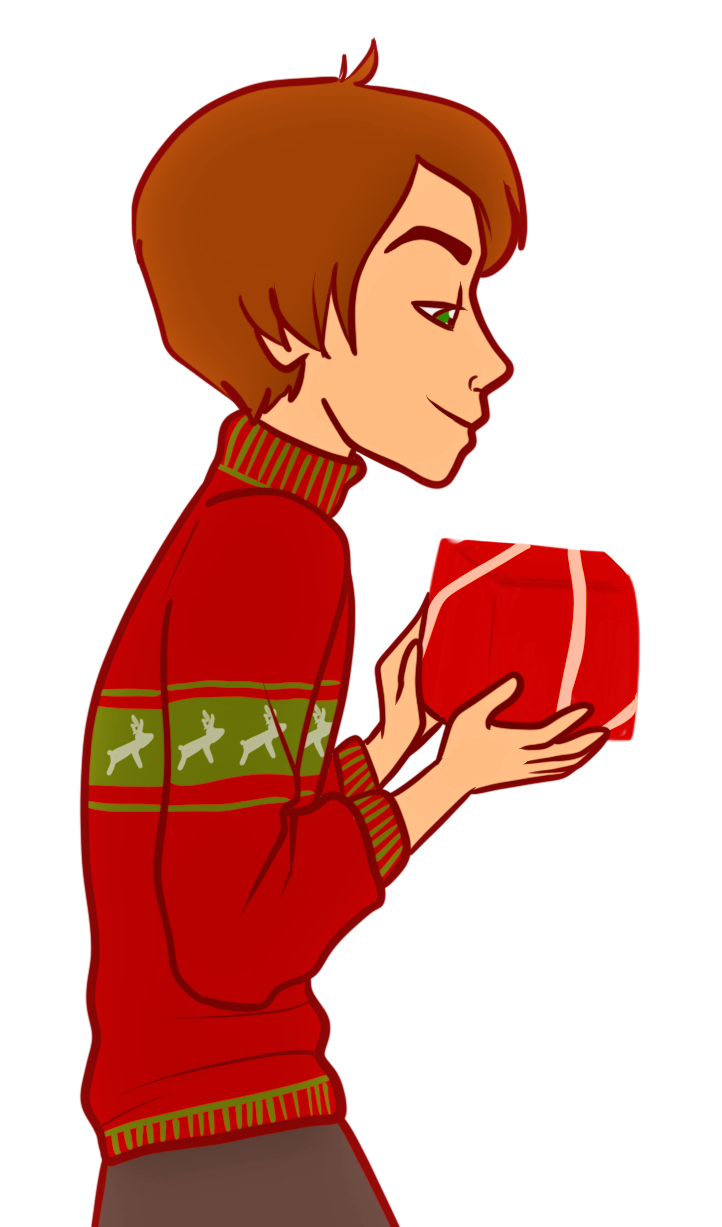
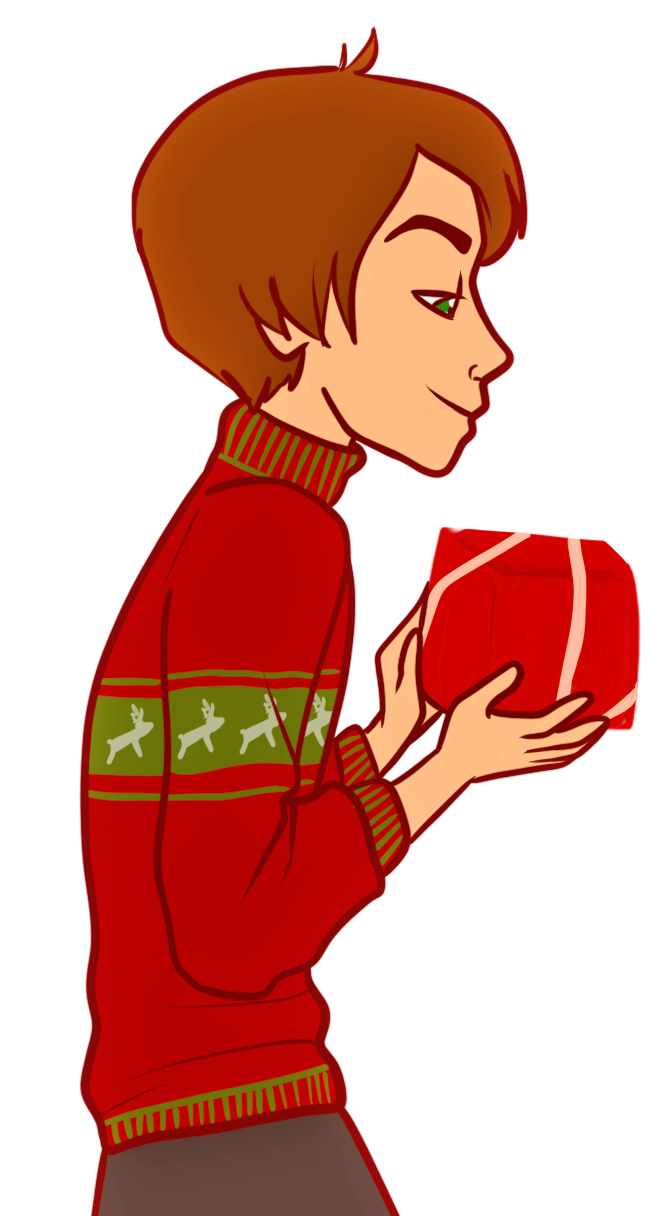
updated images, adjusted positions, fixed game functions

Changed region(s): [[0.0902, 0.0312, 0.9624, 1.0], [0.2707, 0.0625, 0.3008, 0.0938]]

diff --git a/script.js b/script.js
@@ -19,12 +19,12 @@ class Player {
     }
 
     block() {
-        
+
     }
 
     shotgun() {
         console.log(this.name + " won!");
-        return true;
+        gameOver = true;
     }
 
     random() {
@@ -32,13 +32,18 @@ class Player {
         console.log("choice: " + choice);
         if (choice == 0) {
             this.reload();
+            girlWrap();
             return choice;
         } else if (choice == 1) {
             this.block();
+            girlBlock();
             return choice;
         } else if (choice == 2) {
-            this.shoot();
-            return choice;
+            if (computer.shots > 0) {
+                this.shoot();
+                girlThrow();
+                return choice;
+            }
         }
     }
 
@@ -79,36 +84,44 @@ class Player {
     }
 }
 
+var gameOver = false;
+
 function check() {
     if (player.shots == 3) {
-        return player.shotgun();
+        player.shotgun();
     } else if (computer.shots == 3) {
-        return computer.shotgun();
+        computer.shotgun();
     } else {
         return false;
     }
 }
 
 function turn(choice) {
-    var gameOver = check();
+    check();
+
     console.log(gameOver);
     let computerChoice;
 
     if (!gameOver) {
         console.log("choice: " + choice);
         if (choice == 0) {
+            boyWrap();
             computerChoice = computer.random();
-            if (computerChoice == 2 && computer.shots + 1 > 1)
+            if (computerChoice == 2) {
                 computer.shotgun();
+                gameOver = true;
+            }
             else
                 player.reload();
         } else if (choice == 1) {
+            boyBlock();
             player.block();
             computer.random();
         } else if (choice == 2) {
+            boyThrow();
             computerChoice = computer.random();
             console.log('computer chose: ' + computerChoice);
-            if (computerChoice == 0)
+            if (computerChoice == 0 && player.shots > 0)
                 player.shotgun();
             else
                 player.shoot();
@@ -140,3 +153,39 @@ var blockButton = document.getElementById('block');
 blockButton.addEventListener('click', function () {
     turn(1);
 });
+
+function boyThrow() {
+    var image = document.getElementById('boy');
+    image.setAttribute("style", "width: 485px;");
+    image.src = "pictures/boy-throw.png";
+}
+
+function boyBlock() {
+    var image = document.getElementById('boy');
+    image.setAttribute("style", "width: 300px;");
+    image.src = "pictures/boy-block.png";
+}
+
+function boyWrap() {
+    var image = document.getElementById('boy');
+    image.setAttribute("style", "width: 300px;");
+    image.src = "pictures/boy-wrap.png";
+}
+
+function girlThrow() {
+    var image = document.getElementById('girl');
+    image.setAttribute("style", "width: 485px;");
+    image.src = "pictures/girl-throw.png";
+}
+
+function girlBlock() {
+    var image = document.getElementById('girl');
+    image.setAttribute("style", "width: 300px;");
+    image.src = "pictures/girl-block.png";
+}
+
+function girlWrap() {
+    var image = document.getElementById('girl');
+    image.setAttribute("style", "width: 300px;");
+    image.src = "pictures/girl-wrap.png";
+}

diff --git a/index.html b/index.html
@@ -31,11 +31,11 @@
 
     <div class="container" id="pictures-container">
             <div class="pic-column">
-                <img src="pictures/boy-start.png" width="80%">
+                <img id="boy" src="pictures/boy-start.png" width="300px">
             </div>
     
             <div class="pic-column" id="pic-right">
-                <img src="pictures/girl-start.png" width="80%">
+                <img id="girl" src="pictures/girl-start.png" width="300px">
 
             </div>
     

diff --git a/style.css b/style.css
@@ -46,6 +46,10 @@ header h1 {
     font-size: 100px;
 }
 
+#girl {
+    float: right;
+}
+
 .column {
     background-color: #fd3423;
     text-align: justify;
